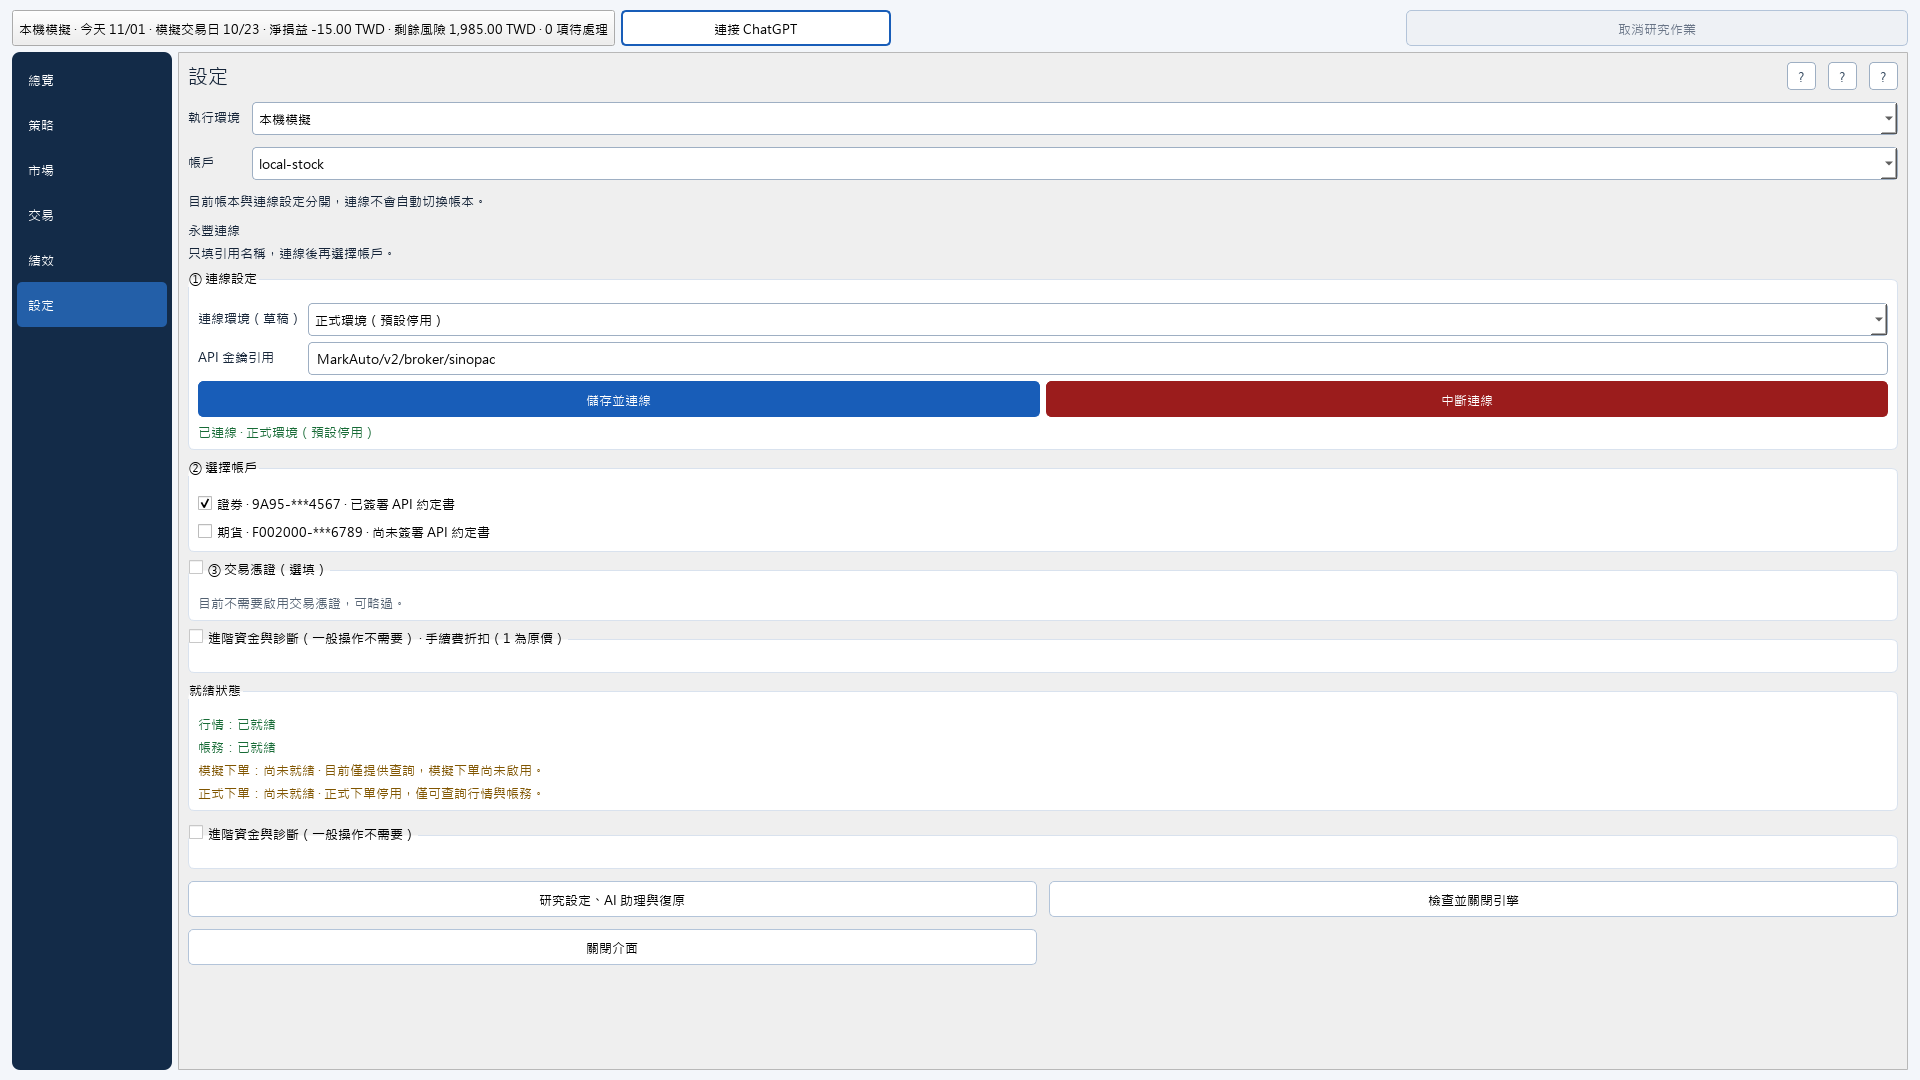
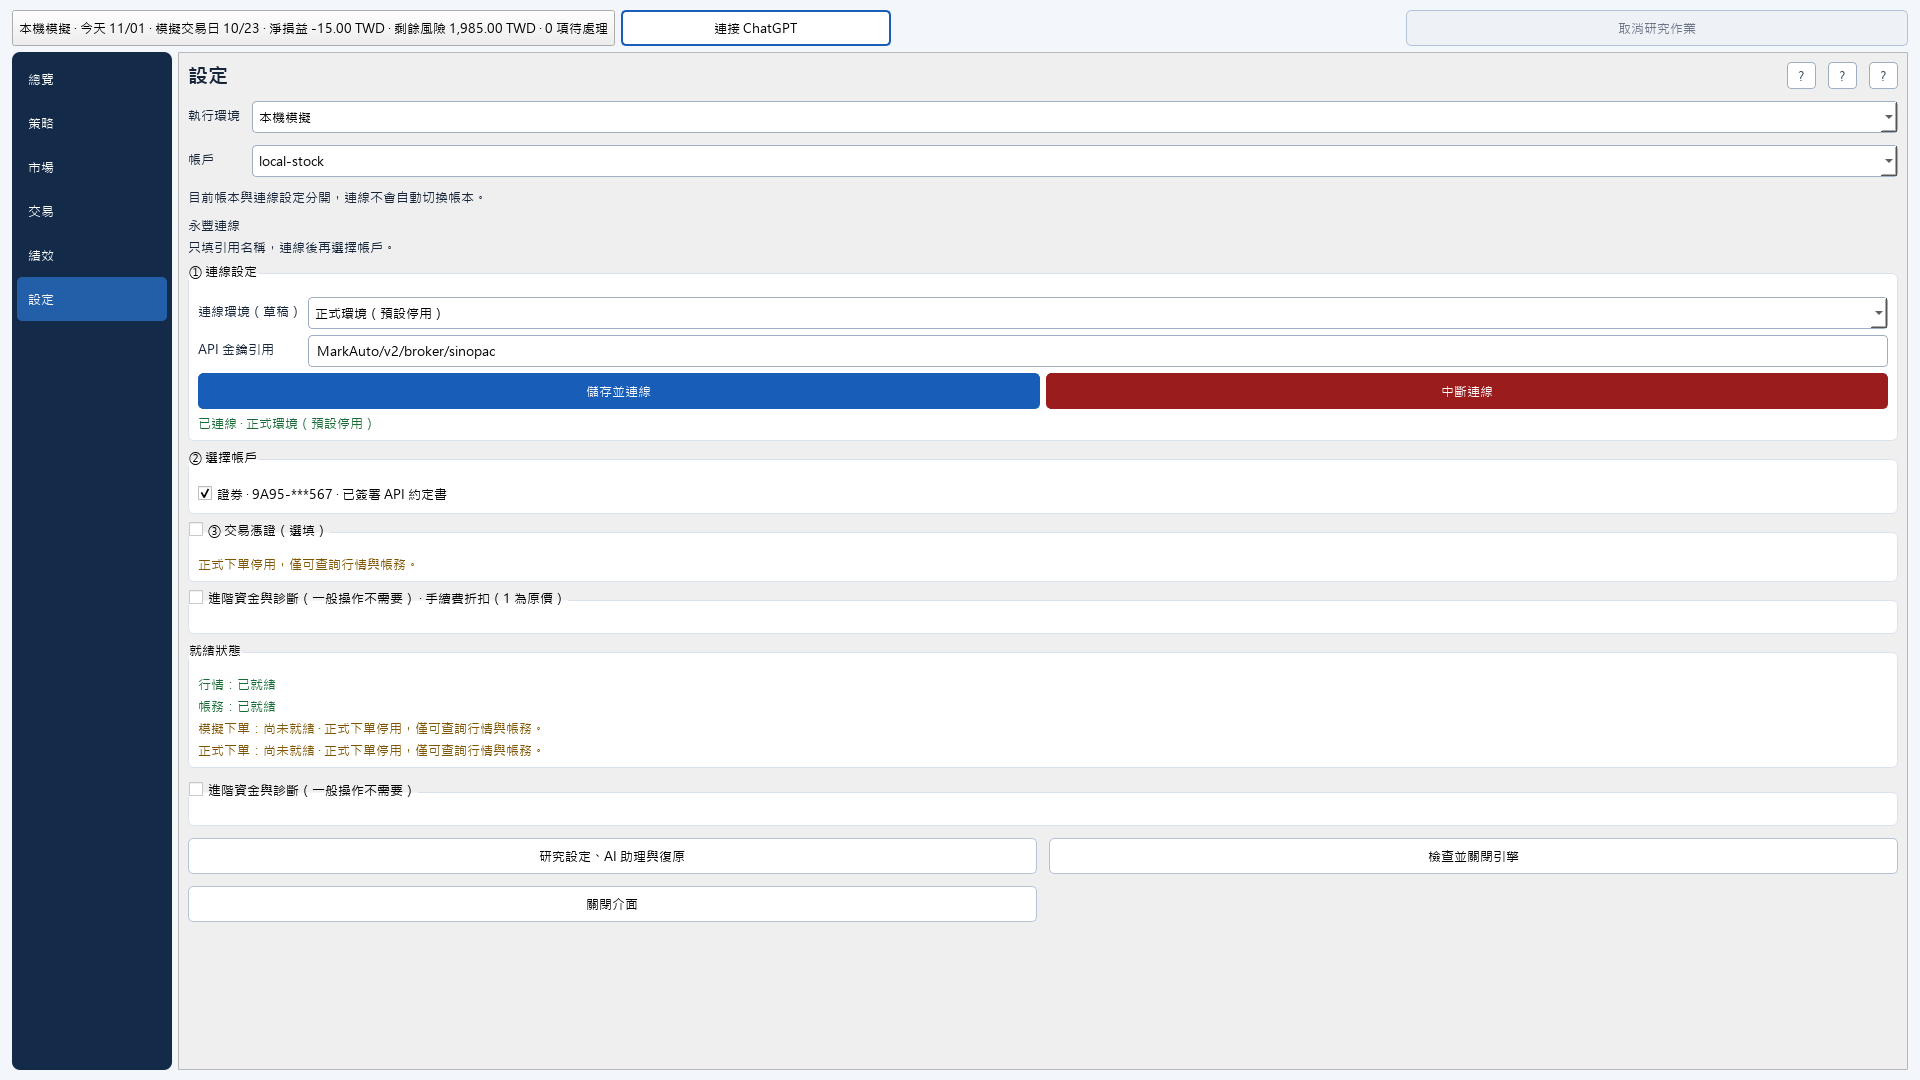
docs(trading): refresh LIVE readonly certificate visual evidence

diff --git a/docs/analysis/m2-connection/verification.md b/docs/analysis/m2-connection/verification.md
@@ -181,3 +181,23 @@ staged evidence while all-scope still had an empty UID. Offline forced rebuild
 restored identities and exact committed doc comparison was completed afterward;
 that retrospective check is not claimed as precommit. Separate source commit
 requires complete all/staged detection with zero empty IDs and no truncation.
+
+### LIVE-only visual evidence after the correction
+
+Source36fc1e86ee00ee9c9c506932c5d962133ec72c0c was captured with the audited
+fake-DTO helper at1366×768 and1920×1080. Only the two existing `*-live.png`
+images were replaced; all other scene bytes remain unchanged. Exact image SHA,
+dimensions and capture context are in [the capture record](live-ca-capture-36fc1e8.json).
+
+The helper expanded the CA group to assert disabled picker/reference/activation
+controls, then restored the original collapsed default for capture. The updated
+formal-readonly guidance is visible; both captures were visually inspected with
+no clipping/overlap/horizontal overflow.1366 uses its existing vertical scroll;
+1920 shows the complete settings page. Horizontal scrollbar maxima are zero.
+The retained LOCAL book and zero commands are asserted. These are offline visual
+fixtures, not a real LIVE login or verified broker account/signature claim.
+
+The source commit's complete all/staged graph checks both returned23 symbols
+across10 files/eight affected flows, HIGH, with no empty IDs, partial or truncated
+results. Python3.11 compilation and changed-file Ruff checks passed. Actual
+window/IPC startup and complete-source validation remain coordinator gates.

diff --git a/docs/design/m2-decisions.md b/docs/design/m2-decisions.md
@@ -817,3 +817,17 @@ zero empty IDs and no partial/truncated flags. Source-all subsequently reports
 partial/truncated flags. The HIGH warning is retained alongside actual focused
 tests; it is not lowered through riskSharedAxes or graph absence. These checks
 precede the separate source-fix commit, not the documentation merge.
+
+## M2-1 / scoped LIVE evidence recapture — 2026-11-01
+
+Source36fc1e8 passed23 updated fake/small-widget/metadata tests, Python3.11
+compilation, Ruff and complete all/staged graph checks (23symbols/10files/eight
+flows, HIGH, zero missing IDs/truncation). Under the coordinator's explicit
+lightweight Qt allowance, replace only1366×768/1920×1080 LIVE visual fixtures.
+The audited helper uses public fake DTOs/RecordingFacade and the real window/
+theme, with SDK imports forbidden, no engine/runtime/login/commands. It checks
+CA controls while expanded before restoring the original collapsed capture state.
+Both images retain the LOCAL book, formal connection label and readable readonly
+CA guidance; visual inspection passes and horizontal scrollbar maxima are zero.
+Other scenes and unrelated historical baselines are not regenerated. The capture
+record pins36fc1e8 and each image hash. Actual startup/full/CI stay separate.
